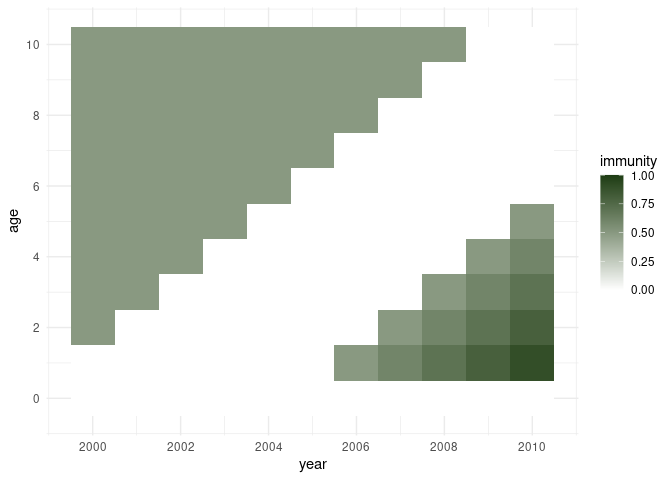
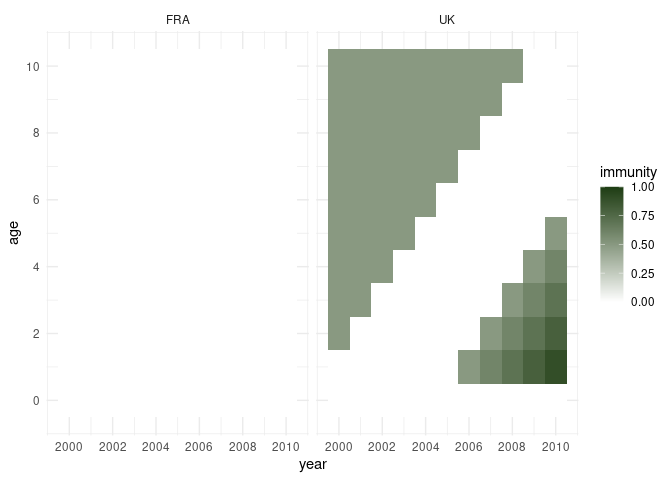
updated plot_population() and the readme to include region column in vip_population

diff --git a/README.md b/README.md
@@ -39,23 +39,23 @@ function “vip\_population”:
 ``` r
 library(vip)
 
-pop <- vip_population(year_min = 2000, year_max = 2010,
+pop <- vip_population(region = c("UK", "FRA"), year_min = 2000, year_max = 2010,
                         age_min = 0, age_max = 10)
 
 dim(pop)
-#> [1] 121   4
+#> [1] 242   5
 head(pop)
-#>   year age cohort immunity
-#> 1 2000   0   2000        0
-#> 2 2001   0   2001        0
-#> 3 2002   0   2002        0
-#> 4 2003   0   2003        0
-#> 5 2004   0   2004        0
-#> 6 2005   0   2005        0
+#>   region year age cohort immunity
+#> 1     UK 2000   0   2000        0
+#> 2    FRA 2000   0   2000        0
+#> 3     UK 2001   0   2001        0
+#> 4    FRA 2001   0   2001        0
+#> 5     UK 2002   0   2002        0
+#> 6    FRA 2002   0   2002        0
 ```
 
-This dataframe has 121 columns (11 age groups 0 - 10 x 11 years 2000 -
-2020).
+This dataframe has 121 columns (1 region x 11 age groups 0 - 10 x 11
+years 2000 - 2020).
 
 Next, we read in a file containing some vaccination activites into an
 object of the class ‘vip\_vacc\_activities’.
@@ -72,26 +72,16 @@ We now apply these vaccination activities sequentially to the population
 using the function ‘apply\_vacc’.
 
 ``` r
-library(dplyr) ## needed for the pipe %>%
-#> 
-#> Attaching package: 'dplyr'
-#> The following objects are masked from 'package:stats':
-#> 
-#>     filter, lag
-#> The following objects are masked from 'package:base':
-#> 
-#>     intersect, setdiff, setequal, union
-
 vaccs <- read_vacc_activities("inst/extdata/vacc_activities.csv")
 vaccs
-#>   year age_first age_last coverage targeting
-#> 1 1998         0       10     0.50    random
-#> 2 2005         0        0     0.50    random
-#> 3 2006         0        0     0.60    random
-#> 4 2007         0        0     0.70    random
-#> 5 2008         0        0     0.80    random
-#> 6 2009         0        0     0.90    random
-#> 7 2010         0        0     0.95    random
+#>   region year age_first age_last coverage targeting
+#> 1     UK 1998         0       10     0.50    random
+#> 2     UK 2005         0        0     0.50    random
+#> 3     UK 2006         0        0     0.60    random
+#> 4     UK 2007         0        0     0.70    random
+#> 5     UK 2008         0        0     0.80    random
+#> 6     UK 2009         0        0     0.90    random
+#> 7     UK 2010         0        0     0.95    random
 
 pop <- apply_vaccs(pop, vaccs)
 ```
